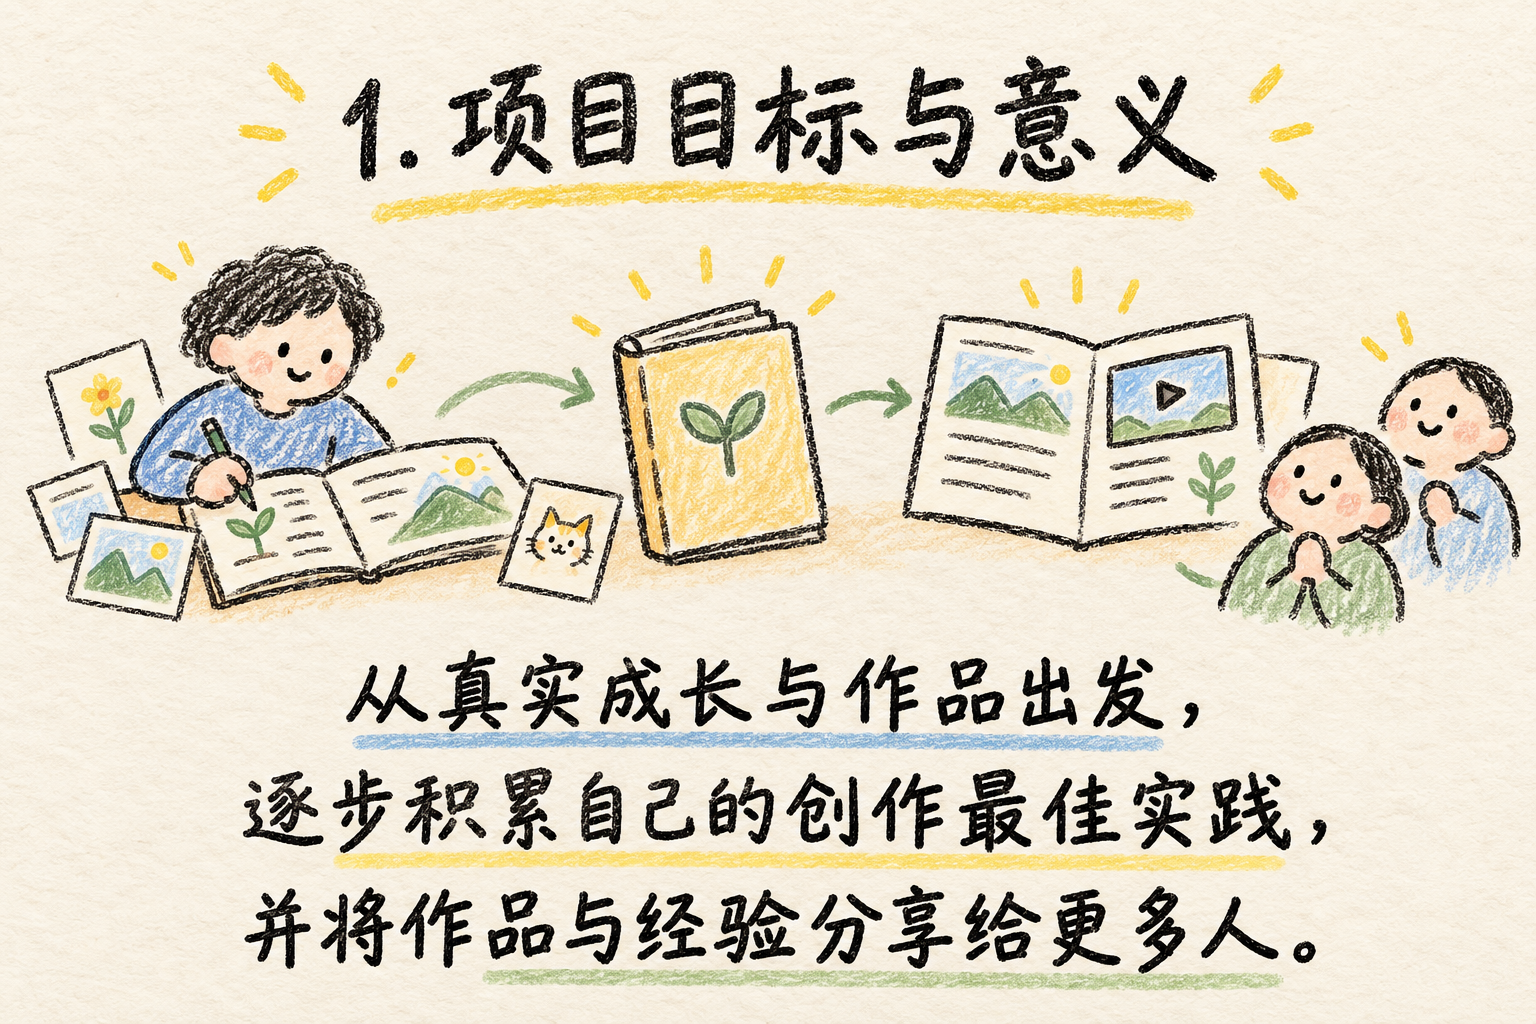
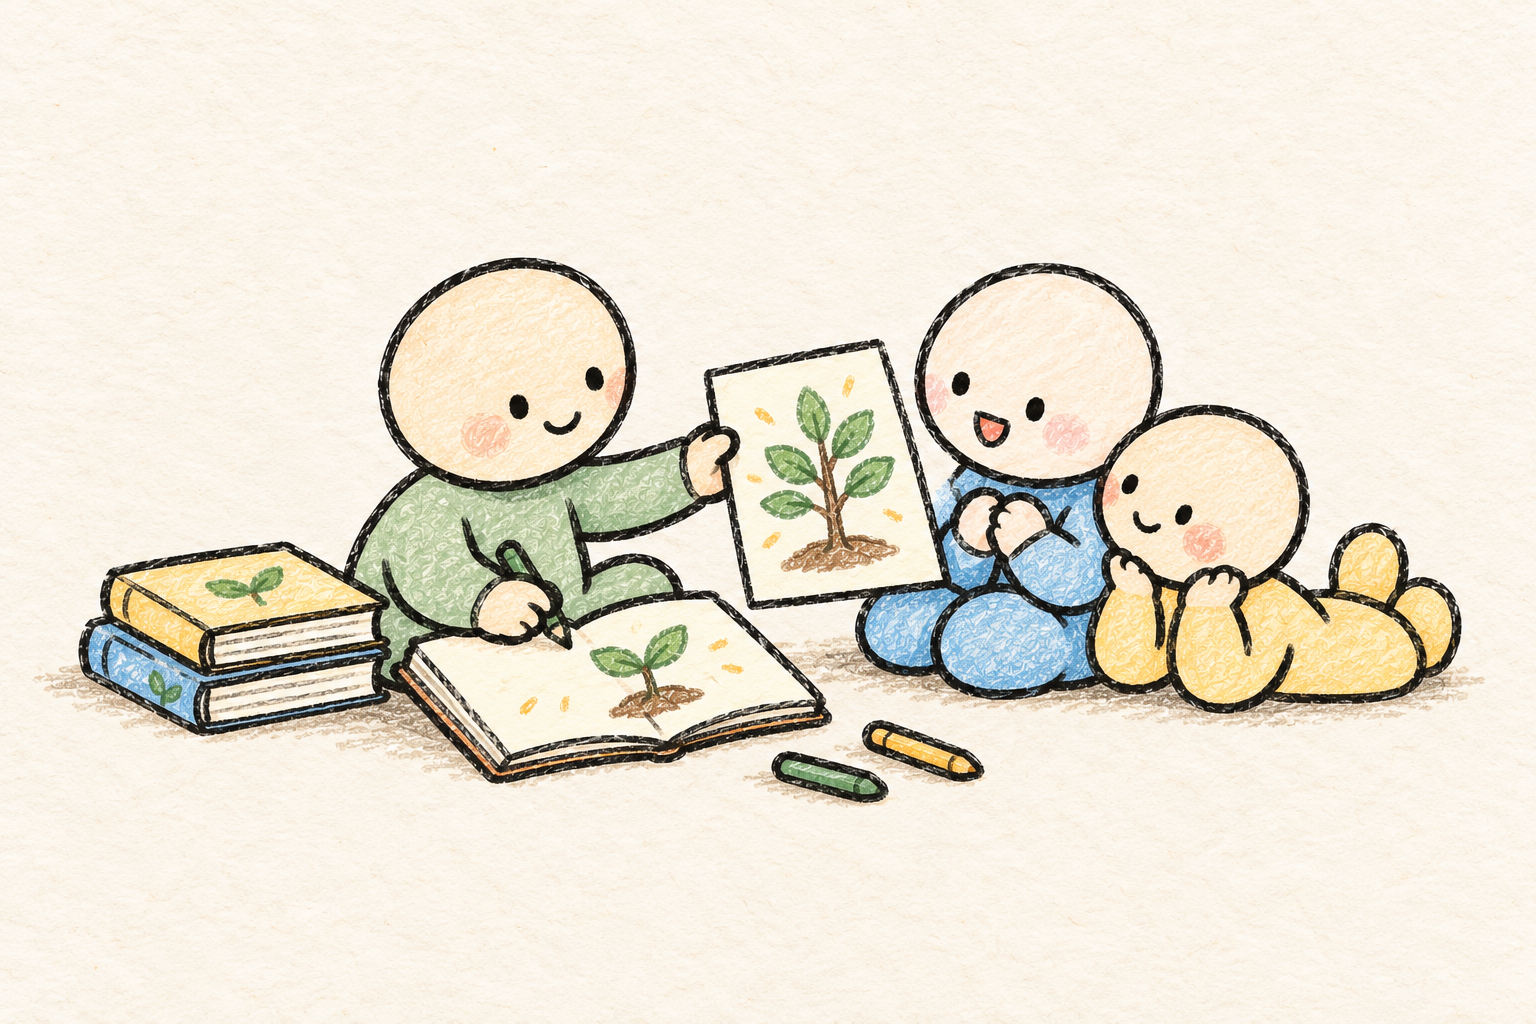
docs: replace goal illustration with text-free scene

diff --git a/assets/project-goal.prompt.md b/assets/project-goal.prompt.md
@@ -4,15 +4,11 @@
 
 ## 生成提示词
 
-Use case: infographic-diagram
-Asset type: 第一张项目设计说明配图，供 Happy Creator Journey 的 design.md 与后续 README 使用。
-生成一张横向 3:2 的温暖、简洁蜡笔手绘图。米白色纸张铺满画面，细腻自然的纸纤维纹理；粗黑色手绘轮廓略有抖动，蜡笔涂色保留颗粒、笔触、空隙。像认真画在纸上的朴拙可爱儿童蜡笔画，信息清晰。低饱和浅蓝、奶油黄、鼠尾草绿，黑灰字与轮廓，少量用色。
-构图：上方醒目的黑色自然手写标题。中间一个简洁舒展的连续场景：左侧打开的成长笔记与小作品，中间整理成一本可反复使用的创作经验册，右侧展开的图文与视频作品传递给两位极简抽象读者。仅用少量自然连接线表现从真实积累、形成方法、分享作品与经验的关系，不用密集卡片，不添加流程节点文字。人物圆润、性别中性、点眼微笑，无具体IP。下方留充足空间，用清晰易读的黑色手写文字呈现完整正文，可分成三行，字要大且疏朗，少量彩色蜡笔下划线强调。
-画面必须出现且仅出现这些文字，逐字准确，不增减、不改写：
-标题：“1. 项目目标与意义”
-正文：
-“从真实成长与作品出发，
-逐步积累自己的创作最佳实践，
-并将作品与经验分享给更多人。”
-不要呈现引号或Markdown的井号。无其他文字，无英文，无小字标注，无水印。
-纸面边缘与画面内部一致，不添加纯白边框、投影或暗角，方便系列图片上下连续展示。留白舒展，元素精简，不要复杂背景，不要写实、动漫、3D、光滑矢量、霓虹或金属质感。
+Use case: illustration-story
+生成一张横向3:2的无文字蜡笔手绘插画，用于表达“从真实成长与作品出发，逐步积累自己的创作最佳实践，并将作品与经验分享给更多人”。
+输入参考图仅作为纸张质感、蜡笔笔触、抽象人物造型和留白尺度的参考，不复制其中的标题、文字、机器人、种树情节、网页边框或红线。
+画面只画一个温暖朴拙的完整场景：一位穿鼠尾草绿衣服的性别中性极简小人坐在地上，在打开的创作笔记上画一株幼苗，身旁整齐叠着两本积累的笔记；小人微笑着将一张画有成长小树的完成作品递给另一位浅蓝衣服的极简小人，接收者身旁再有一位小读者凑过来欣赏。用“创作笔记—积累的本子—分享画作”的自然动作表达成长、积累、分享，全部融入一个紧凑的主体场景，不画流程图、不画箭头、不画分栏。
+主体集中在画面中央，占画面大约一半至六成宽度，上下左右留舒展自然的米白纸面。人物为圆润抽象小人，点状眼睛、轻微微笑、少量淡腮红，不用具体IP，不画写实面部，不画复杂头发。
+整体完全采用温暖的米白纸张底色，细腻自然纸纤维贯穿至边缘。粗黑色略抖动的手绘轮廓，真实蜡笔涂色的颗粒、笔触与空隙。以柔和浅蓝、奶油黄、鼠尾草绿为主，低饱和、少量用色，画面简洁可爱但不过度装饰。
+严格零文字：没有标题、没有副标题、没有说明、没有标签、没有数字、没有字母、没有汉字、没有伪文字，书本和画作上仅有简单植物图画。不要刻意给标题或正文预留版式区域。
+无纯白边框、无投影、无暗角、无水印，无写实照片、动漫、3D、光滑矢量、霓虹科技风、金属感、复杂背景。
